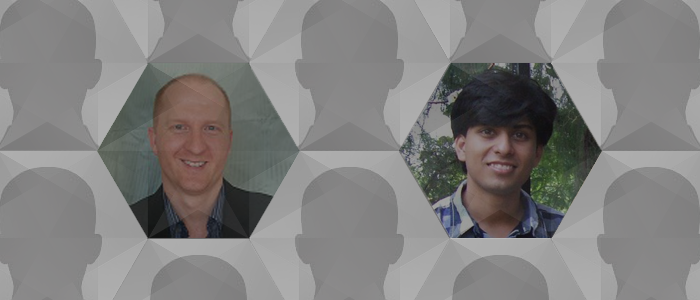
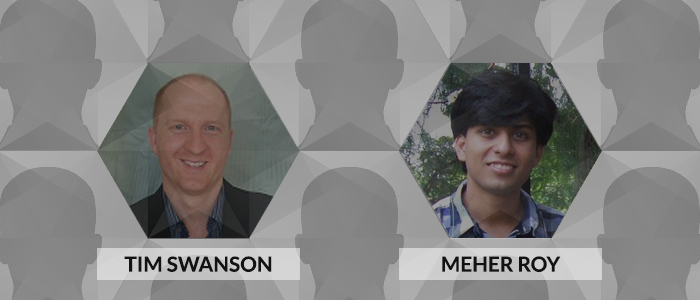
finish blog and add welcome tim and meher post

Changed region(s): [[0.12, 0.81, 0.45, 0.96], [0.57, 0.81, 0.87, 0.96]]

diff --git a/pages/posts/2014-10-23-tim-swanson-and-meher-roy-join-hyperledger.html b/pages/posts/2014-10-23-tim-swanson-and-meher-roy-join-hyperledger.html
@@ -1,0 +1,35 @@
+title: Tim Swanson and Meher Roy Join Hyperledger
+author: Dan O'Prey
+date: 23-10-2014
+url: http://hyperledger.com/posts/2014-10-23-tim-swanson-and-meher-roy-join-hyperledger.html
+
+{% extends "post.html" %}
+{% block body %}
+
+<div class="img-wrap">
+<img src="/static/img/tim-meher-hyperledger.png" />
+</div>
+
+{% load markup %}
+{% filter markdown %}
+
+We're delighted to announce two new members to the hyperledger team, Tim Swanson as an advisor and Meher Roy as a contributor.
+
+Tim Swanson
+-----------
+
+Tim is a well respected thought leader in the crypto-ledger industry. He is the author of [*The Anatomy of a Money-like Informational Commodity: A Study of Bitcoin*](http://www.ofnumbers.com/the-anatomy/) and  [*Great Chain of Numbers: A Guide to Smart Contracts, Smart Property, and Trustless Asset Management*](http://www.ofnumbers.com/the-guide/). He currently serves as the Head of Business Development at [Melotic](http://www.melotic.com), a curated Digital Asset Exchange. Tim is one
+of the most respected analysts in this space and we are delighted to have him on board.
+
+Meher Roy
+---------
+
+Meher is the first independent contributor to the hyperledger project. He's an experience project manager and an expert in The Internet of Money - Implementing cryptographic money systems, cryptographic ledgers, and decentralised exchange protocols. In his spare time, he runs the Basel Bitcoin Meetup. He brings a lot of experience and new ideas to the team and will be instrumental in the development of our decentralised exchange mechanism. Expect to hear a lot of those ideas here on
+the hyperledger blog soon. 
+
+We welcome them both to the team and look forward to working with them for a long time to come.
+
+Interested in joining the hyperledger team? [Get in touch](http://hyperledger.com/contact.html)
+
+{% endfilter %}
+{% endblock %}

diff --git a/templates/post.html b/templates/post.html
@@ -1,4 +1,7 @@
 {% extends "base.html" %}
+{% block header %}
+<title>{{ title }} - Hyperledger Blog</title>
+{% endblock %}
 
 {% block top-content %}
     <h1>Blog</h1>
@@ -35,7 +38,22 @@
         {% block body %}
         {% endblock %}
     <footer>
-        <h3>Comments</h3>
+        <p>You should subscribe to the hyperledger blog <a href="hyperledger.com/feed.xml">via RSS</a> or 
+        <form action="http://hyperledger.us8.list-manage1.com/subscribe/post?u=3220d23ed5899233e3a7fe879&amp;id=275ba466fb" method="post" id="mc-embedded-subscribe-form" name="mc-embedded-subscribe-form" class="validate" target="_blank" novalidate>
+            <input type="email" value="" name="EMAIL" placeholder="Email Address" class="required email" id="mce-EMAIL">
+            <div id="mce-responses" class="clear">
+            <div class="response" id="mce-error-response" style="display:none"></div>
+            <div class="response" id="mce-success-response" style="display:none"></div>
+            </div>
+            <div style="position: absolute; left: -5000px;">
+            <input type="text" name="b_3220d23ed5899233e3a7fe879_275ba466fb" tabindex="-1" value="">
+            </div>
+            <input type="submit" value="Subscribe >" name="subscribe" id="mc-embedded-subscribe" class="button subscribe">
+        </form>
+
+        </p>
+
+        <h3 style="clear:both; padding-top: 40px;">Comments</h3>
 
         <div id="discourse-comments"></div>
 

diff --git a/templates/base.html b/templates/base.html
@@ -105,6 +105,8 @@
                     <ul class="nav masthead-nav">
                         <li><a href="/">Home</a>
                         </li>
+                        <li><a href="/blog.html">Blog</a>
+                        </li>
                         <li><a href="/faqs.html">FAQs</a>
                         </li>
                         <li><a href="http://forum.hyperledger.com">Forum</a>
@@ -155,7 +157,7 @@
                 </div>
                 <div class="row">
                     <div class="col col-xs-12 col-md-4">
-                        <p><a href="http://forum.hyperledger.com/category/blog">Blog</a>
+                        <p><a href="/blog.html">Blog</a>
                         </p>
                         <p><a href="http://forum.hyperledger.com/category/press">Press</a>
                         </p>
